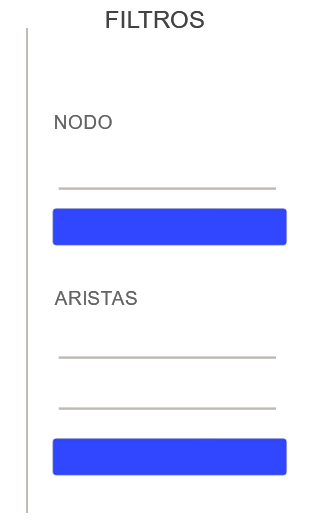
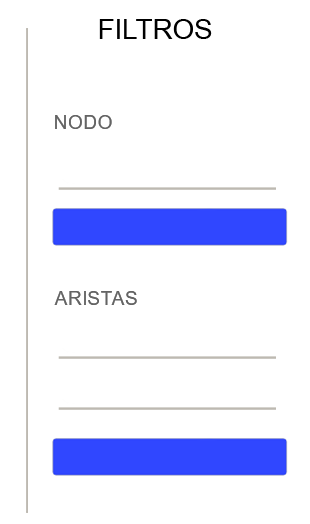
feat: new title

Changed region(s): [[0.3194, 0.0, 0.6968, 0.0916]]

diff --git a/main.py b/main.py
@@ -116,11 +116,9 @@ def borrar_arista(balde, origen, destino):
   else:
     for i in range(len(lista) - 1):
       tupla = lista[i]
-      print("for")
       if dest == tupla[0]:
         balde[ori].pop(i)
         #print("Se borro la arista con origen en {} y destino en {}".format(diccionario2[ori], diccionario2[dest]))
-        print("if")
 
 def horasMin(h):
   h = int(h)
@@ -215,7 +213,7 @@ window = Tk()
 window = window
 window.geometry('1366x718')
 window.resizable(0, 0)
-window.title('Calculadora de Ruta')
+window.title('Ruta mas rapida entre aeropuertos')
 
 # ============================background image============================
 bg_frame = Image.open('images\\background1.png')
@@ -249,9 +247,9 @@ arista2Input = Entry(window, highlightthickness=0, relief=FLAT, bg="#ffffff", fg
 arista2Input.place(x=1030, y=485, width=230)
 
 # ========================================================================
-txt = "CALCULADOR DE RUTA MAS RAPIDA"
+txt = "Ruta mas rapida entre aeropuertos"
 heading = Label(lgn_frame, text=txt, font=('yu gothic ui', 25, "bold"), bg="#ffffff", fg='black', bd=10, relief=FLAT)
-heading.place(x=10, y=30, width=900, height=30)
+heading.place(x=25, y=30, width=900, height=30)
 
 # ============ Eliga su destino =============================================
 label = Label(lgn_frame, text="Eliga su destino", bg="#ffffff", fg="#4f4e4d", font=("yu gothic ui", 17, "bold"))
@@ -359,7 +357,7 @@ def showAirplane(routesresut_p):
     airplane_icon_label = Label(lgn_frame, image=photo, bg='#ffffff')
     airplane_icon_label.image = photo
     airplane_icon_label.place(x=600, y=450)
-    label = Label(lgn_frame, text=routesresut_p, font=('yu gothic ui', 20, "bold"), bg="#ffffff", fg='black', bd=0, relief=FLAT)
+    label = Label(lgn_frame, text=routesresut_p, font=('yu gothic ui', 19,"bold"), bg="#ffffff", fg='black', bd=0, relief=FLAT)
     label.place(x=300, y=380)
 
 
@@ -370,7 +368,7 @@ def showDisplayableRuteTime(totalTime):
     showTimeFormat(timeFormat)
 
 def showTimeFormat(timeFormat):
-    label = Label(lgn_frame, text=timeFormat, font=('yu gothic ui', 20, "bold"), bg="#ffffff", fg='black', bd=0, relief=FLAT)
+    label = Label(lgn_frame, text=timeFormat, font=('yu gothic ui', 19,"bold"), bg="#ffffff", fg='black', bd=0, relief=FLAT)
     label.place(x=260, y=430)
 
 def deleteAirport(ladj_P):
